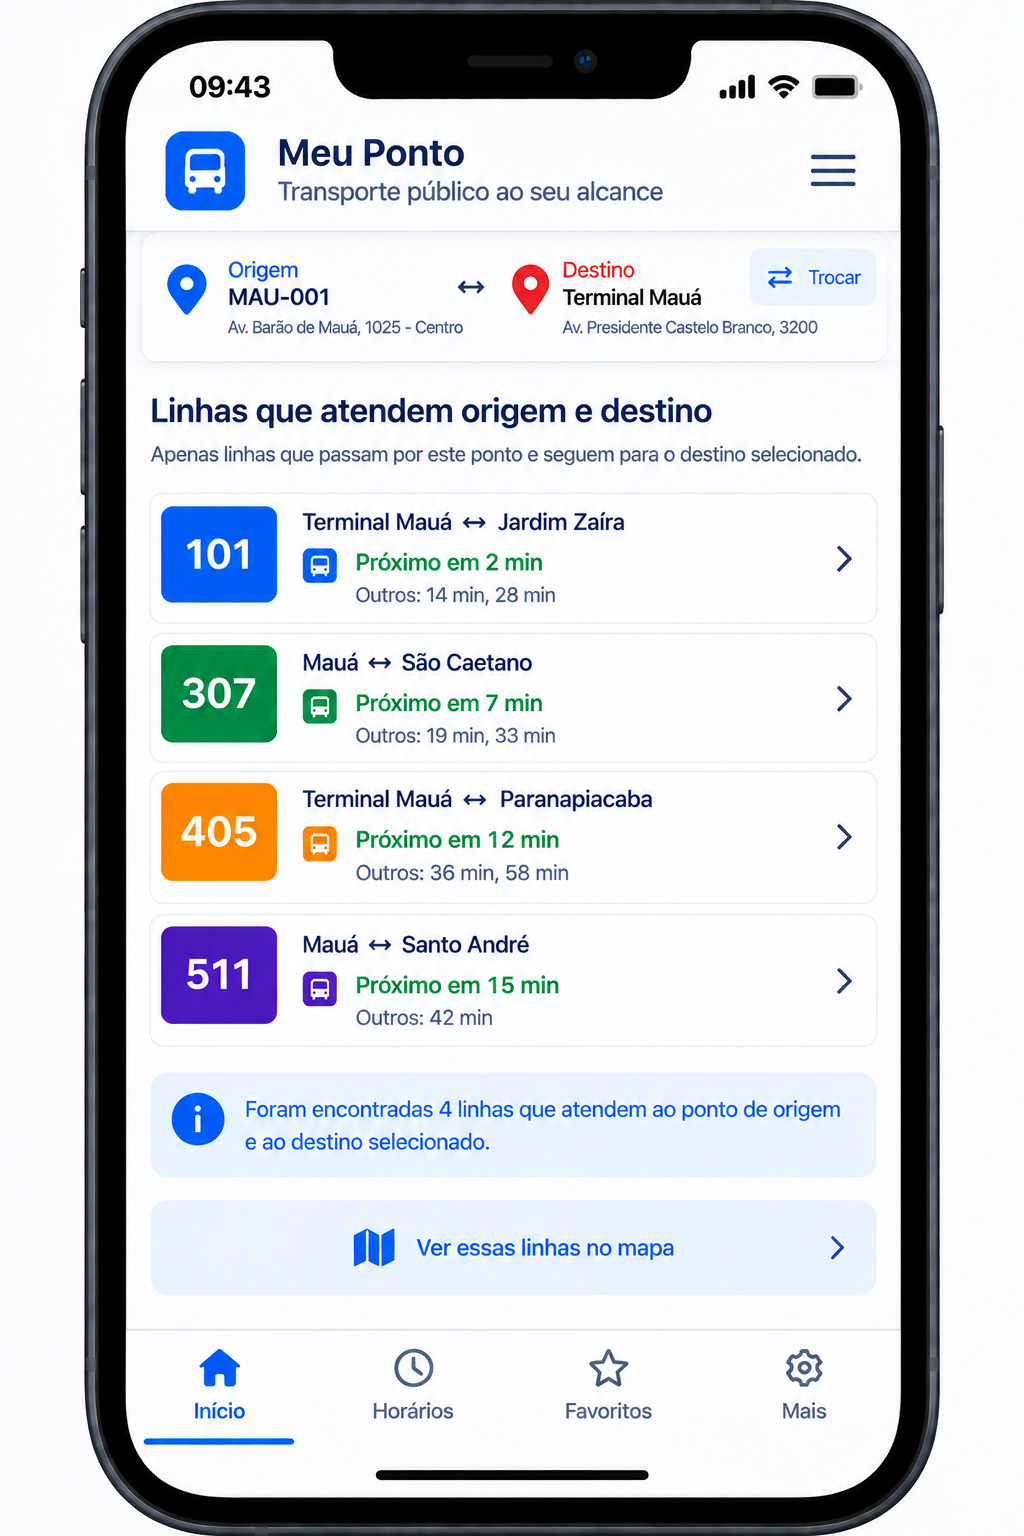
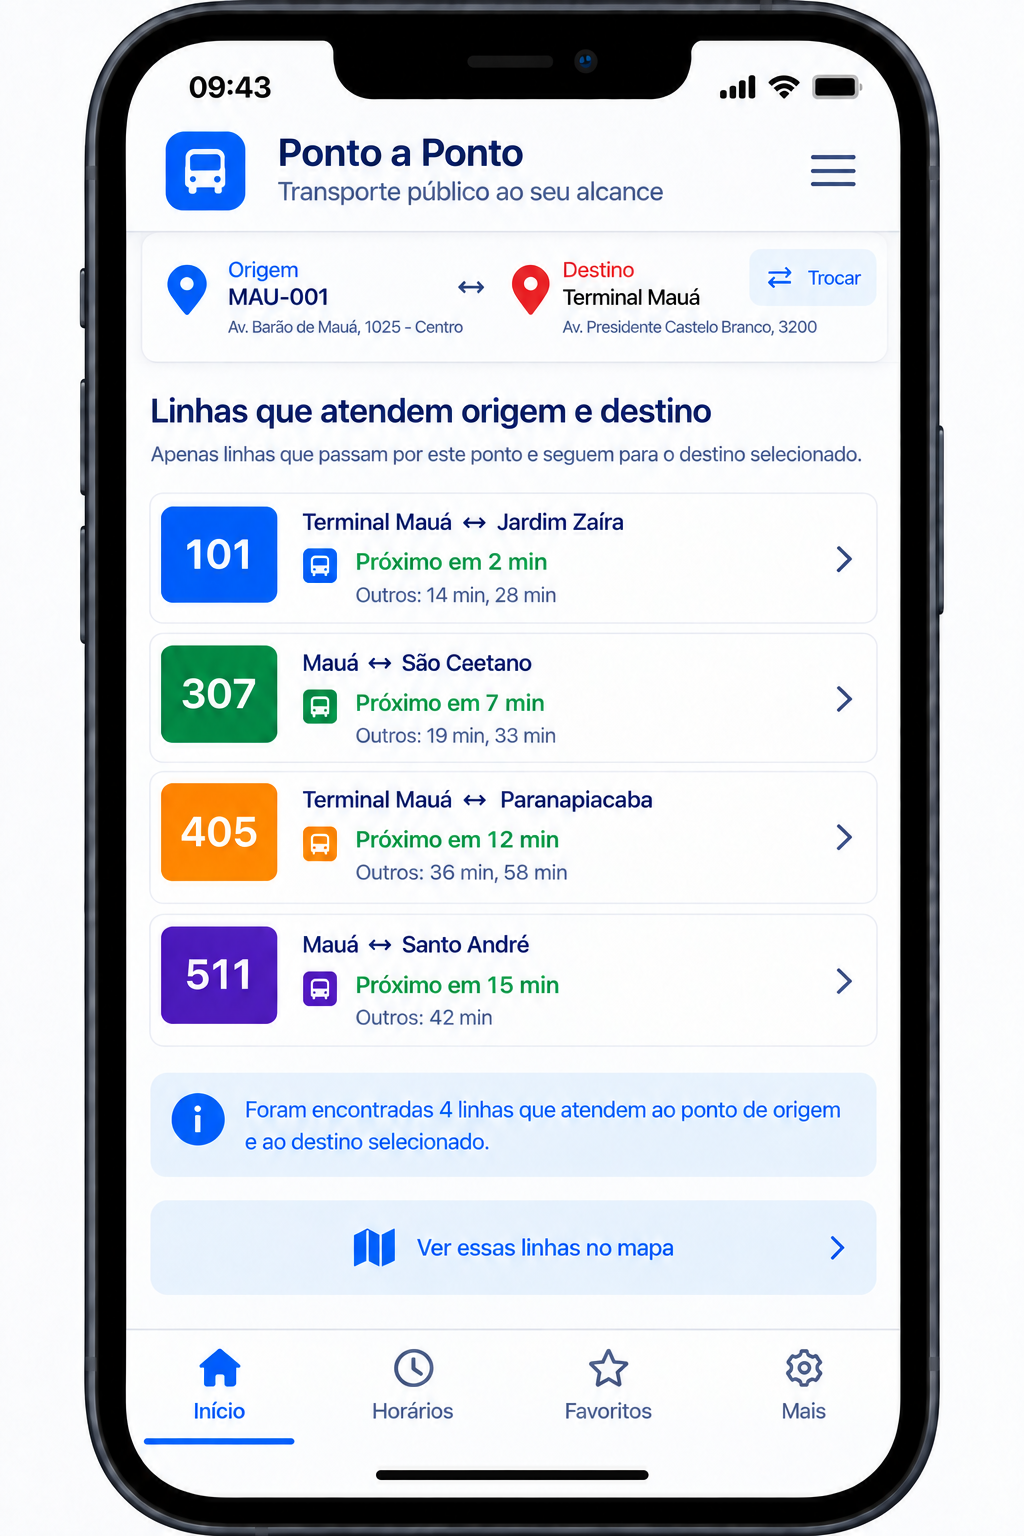
docs: criar apresentação do PaP com mockups compartilhados

diff --git a/docs/mockup/mockup_ponto_a_ponto.tex b/docs/mockup/mockup_ponto_a_ponto.tex
@@ -1,0 +1,152 @@
+\documentclass[11pt,a4paper]{article}
+\usepackage[utf8]{inputenc}
+\usepackage[T1]{fontenc}
+\usepackage[brazilian]{babel}
+\usepackage{lmodern}
+\usepackage[margin=19mm,headheight=15pt,footskip=12mm]{geometry}
+\usepackage{graphicx,xcolor,tabularx,array,enumitem,fancyhdr,hyperref}
+\definecolor{papblue}{HTML}{124C82}
+\definecolor{papteal}{HTML}{087F8C}
+\definecolor{paplight}{HTML}{EEF5FA}
+\definecolor{papgray}{HTML}{485568}
+\hypersetup{colorlinks=true,urlcolor=papblue,linkcolor=papblue,pdftitle={Ponto a Ponto -- apresentação da proposta a Osmar},pdfauthor={Equipe do Projeto Integrador II -- UNIVESP}}
+\graphicspath{{imgs/}}
+\renewcommand{\familydefault}{\sfdefault}
+\setlength{\parindent}{0pt}
+\setlength{\parskip}{7pt}
+\setlist[itemize]{leftmargin=*,itemsep=5pt,topsep=3pt}
+\setlist[enumerate]{leftmargin=*,itemsep=6pt,topsep=3pt}
+\pagestyle{fancy}\fancyhf{}
+\fancyhead[L]{\small\color{papblue}\textbf{PaP | Ponto a Ponto}}
+\fancyhead[R]{\small\color{papgray}Proposta para avaliação}
+\fancyfoot[L]{\footnotesize\color{papgray}Projeto Integrador II | UNIVESP}
+\fancyfoot[R]{\footnotesize\thepage/8}
+\renewcommand{\headrulewidth}{0.3pt}
+\newcommand{\titulo}[2]{\vspace*{2mm}{\small\bfseries\color{papteal}#1\par}\vspace{2mm}{\LARGE\bfseries\color{papblue}#2\par}\vspace{2mm}}
+\newcommand{\bloco}[2]{\par\smallskip\noindent\colorbox{paplight}{\parbox{\dimexpr\linewidth-2\fboxsep\relax}{\vspace{2mm}\textbf{\color{papblue}#1}\par\smallskip #2\vspace{2mm}}}\par\smallskip}
+\newcommand{\parimagens}[4]{\par\smallskip\noindent\begin{minipage}[t]{0.485\linewidth}\vspace{0pt}\centering\includegraphics[width=\linewidth,height=139mm,keepaspectratio]{#1}\par\smallskip{\small\textbf{#2}}\end{minipage}\hfill\begin{minipage}[t]{0.485\linewidth}\vspace{0pt}\centering\includegraphics[width=\linewidth,height=139mm,keepaspectratio]{#3}\par\smallskip{\small\textbf{#4}}\end{minipage}\par\smallskip{\footnotesize\color{papgray}Fonte: mockups gerados automaticamente, fornecidos pelo grupo e incluídos no relatório parcial. Dados e locais ilustrativos.}\par}
+\begin{document}
+\titulo{APRESENTAÇÃO DA SOLUÇÃO INICIAL · VERSÃO 1 · 24/09/2026}{Ponto a Ponto}
+{\Large\color{papteal}Deslocamento facilitado entre origem e destino.\par}
+\vspace{5mm}
+{\large Sistema de acesso a informações do transporte público por QR Code em pontos de ônibus\par}
+\vspace{5mm}
+\bloco{O que queremos discutir com você, Osmar}{Como facilitar a decisão de quem está no ponto de ônibus e precisa chegar a um destino, mesmo sem conhecer as linhas, o nome da parada ou seu endereço.}
+\textbf{A proposta}
+
+Um QR Code no ponto abre uma página no navegador com a origem já identificada. O passageiro consulta os próximos ônibus e escolhe aonde quer ir. A seleção do destino reduz as informações às alternativas úteis e permite consultar trajeto, espera e possíveis trocas.
+\begin{enumerate}
+\item \textbf{Acessar:} ler o QR Code, sem instalar aplicativo.
+\item \textbf{Escolher:} informar o destino, sem escolher previamente uma linha.
+\item \textbf{Comparar:} observar as alternativas e os veículos relevantes juntos.
+\item \textbf{Viajar:} consultar o percurso, o tempo total e eventuais baldeações.
+\end{enumerate}
+\textbf{Como ler este documento}
+
+As páginas seguintes apresentam oito telas conceituais já utilizadas no relatório parcial e explicam a experiência pretendida. Existe também um protótipo web funcional, descrito no relatório, mas \textbf{as imagens deste PDF não são capturas dessa implementação}.
+\bloco{Identidade e dados das imagens}{As telas apresentam a identidade do projeto \textbf{Ponto a Ponto (PaP)}. Linhas, endereços, posições e tempos desenhados são ilustrativos. A apresentação busca seu retorno sobre a proposta e não comprova uma operação real em Mauá.}
+\textbf{Retorno esperado:} sua percepção sobre utilidade, clareza, dificuldades práticas e melhorias prioritárias. As perguntas estão na última página.
+
+\newpage
+\titulo{01 · CHEGADA AO PONTO}{Reconhecer a origem sem pesquisar}
+O passageiro aponta a câmera do celular para o QR Code da parada. A página deve abrir com o ponto identificado e oferecer acesso às linhas e à escolha do destino.
+\parimagens{mockup1.png}{Sinalização conceitual no ponto}{mockup2.png}{Origem identificada na página}
+\bloco{O que esse acesso pretende resolver}{Dispensar o conhecimento prévio do nome da parada, endereço, código ou linha. O QR Code estabelece o contexto da consulta; a navegação ocorre pela web e depende de acesso à internet.}
+{\small A placa é uma ilustração: não representa instalação nem aprovação municipal. O código desenhado não é um QR Code funcional para teste.}
+\textbf{Para avaliar:} a sinalização e a primeira tela deixam claro o que o passageiro pode fazer?
+
+\newpage
+\titulo{02 · CONSULTA INICIAL}{Ver os ônibus e escolher aonde ir}
+A consulta inicial reúne as linhas do ponto. Para quem não sabe qual utilizar, a escolha do destino deve orientar o próximo passo e reduzir a quantidade de informações.
+\parimagens{mockup3.png}{Linhas e próximas chegadas}{mockup4.png}{Escolha do destino no mapa}
+\bloco{Da lista completa à necessidade do passageiro}{A lista inicial não deve exigir que a pessoa conheça o itinerário de cada linha. Ao informar um destino, ela passa a consultar as alternativas compatíveis com sua viagem.}
+{\small Os tempos de chegada mostrados nas telas são ilustrativos. No protótipo, as previsões demonstrativas usam dados simulados.}
+\textbf{Para avaliar:} a opção de escolher um destino está suficientemente visível para quem não conhece a rede?
+
+\newpage
+\titulo{03 · COMPARAÇÃO DAS ALTERNATIVAS}{Reunir os ônibus úteis no mesmo mapa}
+Com origem e destino definidos, o passageiro consulta uma lista reduzida e acompanha os veículos relevantes de diferentes linhas em uma mesma visualização.
+\parimagens{mockup5.png}{Alternativas filtradas pelo destino}{mockup6.png}{Veículos de diferentes linhas juntos}
+\bloco{Decidir sem abrir uma consulta para cada linha}{Cores e identificadores relacionam veículos e alternativas. A intenção é facilitar a comparação e evitar que linhas sem relação com o destino ocupem a atenção do passageiro.}
+{\small Apesar da expressão ``tempo real'' desenhada no mockup, esta apresentação utiliza posições e tempos ilustrativos; não há integração operacional de Mauá demonstrada aqui.}
+\textbf{Para avaliar:} a visão conjunta ajuda na decisão? Quais informações deveriam ter maior destaque?
+
+\newpage
+\titulo{04 · DETALHAMENTO DA VIAGEM}{Entender o percurso e o tempo de chegada}
+Depois de comparar as alternativas, o passageiro pode abrir os detalhes de uma linha, consultar a sequência de paradas e acompanhar o trajeto destacado no mapa.
+\parimagens{mockup7.png}{Horários e duração da viagem}{mockup8.png}{Trajeto e sequência de paradas}
+\bloco{Duas informações que precisam ser distintas}{\textbf{Espera no ponto:} quanto falta para embarcar. \textbf{Tempo total até o destino:} inclui espera, deslocamento e eventuais trocas. O desenho do percurso deve acompanhar as ruas, com sentido e pontos de embarque claros.}
+{\small Os valores desenhados nas telas não formam uma simulação numérica validada. As imagens ilustram viagens diretas; o exemplo da próxima página explica uma viagem com troca.}
+\textbf{Para avaliar:} fica claro onde embarcar, em qual sentido viajar e onde descer?
+
+\newpage
+\titulo{05 · EXEMPLO DE USO}{Quando a viagem exige trocar de ônibus}
+\textbf{Situação ilustrativa:} uma pessoa chega a uma parada que não conhece e deseja ir ao trabalho. Ela lê o QR Code, confirma a origem e escolhe seu destino. O planejamento encontra uma opção com duas linhas.
+\bloco{Exemplo exclusivamente simulado}{Os nomes ``Linha A'', ``Linha B'' e ``Ponto de conexão'' abaixo são genéricos. Os tempos foram escolhidos apenas para explicar o cálculo; não correspondem às linhas ou aos valores das telas anteriores.}
+\renewcommand{\arraystretch}{1.5}
+\begin{tabularx}{\linewidth}{@{}>{\bfseries}p{0.30\linewidth} X r@{}}
+Etapa & Orientação ao passageiro & Tempo\\\hline
+Espera na origem & Aguardar o veículo da Linha A no sentido indicado. & 4 min\\
+Primeiro trecho & Viajar pela Linha A até o ponto de conexão. & 12 min\\
+Troca & Descer e aguardar a Linha B no mesmo local de embarque previsto neste exemplo. & 5 min\\
+Segundo trecho & Seguir pela Linha B até a parada de destino. & 9 min\\\hline
+Total estimado & Da consulta na origem até a parada de destino. & \textbf{30 min}\\
+\end{tabularx}
+\vspace{4mm}
+\textbf{O que a orientação deve mostrar}
+\begin{itemize}
+\item Linha e sentido de cada trecho, pontos de embarque e desembarque.
+\item Local da troca e tempo de espera antes do segundo ônibus.
+\item Tempo total, quantidade de trocas e percurso pelas ruas.
+\item Ausência de alternativa quando os dados ou horários não permitirem encontrar um caminho.
+\end{itemize}
+O protótipo usa planejamento por menor tempo estimado, com Dijkstra, considerando os horários do cenário e as conexões. Um ônibus que chega primeiro à origem não necessariamente produz a chegada mais rápida ao destino.
+\bloco{Ponto de atenção para uma operação real}{Este exemplo supõe troca no mesmo local e não inclui caminhada nem regras tarifárias. Em uma implantação, deslocamentos entre plataformas, acessibilidade, tempo mínimo de conexão e integração tarifária precisam ser verificados.}
+\textbf{Para avaliar:} quais cuidados e informações sobre baldeações são indispensáveis na realidade de Mauá?
+
+\newpage
+\titulo{06 · ESTÁGIO DO PROJETO}{O que existe e o que depende de validação}
+\textbf{Protótipo web descrito no relatório}
+\begin{itemize}
+\item Consulta por origem e destino, acesso por QR Code e apresentação de alternativas.
+\item Planejamento com possíveis baldeações e cenários de veículos e tempos simulados.
+\item Favoritos no navegador, como Casa, Trabalho e Escola, sem exigir cadastro para uma consulta ocasional.
+\item Administração separada para ativar ou desativar a simulação; o passageiro não precisa ligá-la na tela principal.
+\end{itemize}
+A aplicação utiliza Django, React e SQLite. O uso pelo celular ocorre no navegador; um aplicativo Android permanece como possibilidade futura.
+\textbf{Dados e limites atuais}
+\begin{itemize}
+\item OSM e catálogos públicos ajudam a montar a base de linhas, itinerários e paradas, mas a cobertura é parcial.
+\item Há localizações aproximadas e registros sem coordenadas, que precisam de conferência.
+\item Tempos e posições demonstrativos não são previsões operacionais. Desligar a simulação não disponibiliza automaticamente dados reais.
+\item O PDF permite avaliar o conceito; a usabilidade e o funcionamento devem ser observados também no protótipo, com participantes.
+\end{itemize}
+\bloco{Em que sua experiência pode ajudar}{Identificar situações que o fluxo ainda não atende, conferir o vocabulário usado e orientar o contato com os responsáveis pelo cadastro e pela operação do transporte.}
+\textbf{Informações para uma futura integração}
+
+Linhas e variantes vigentes; paradas por sentido e suas coordenadas; ordem das paradas e trajetos; horários e calendários; condições de transferência; localização dos veículos e previsões, quando disponíveis. Também será necessário conhecer as condições de uso, os responsáveis e a frequência de atualização desses dados.
+
+Um eventual piloto com placas exige autorização e definição de quem manterá os QR Codes e as informações. Essas condições ainda precisam ser discutidas.
+
+\newpage
+\titulo{07 · CONVITE À AVALIAÇÃO}{Osmar, o que deveríamos melhorar?}
+Seu retorno pode ser enviado no próprio corpo do e-mail, seguindo os números abaixo. Não é necessário elaborar um parecer formal: exemplos práticos e sugestões já ajudam a orientar a próxima versão.
+\begin{enumerate}
+\item \textbf{Utilidade.} O acesso por QR Code ajudaria quem não conhece o ponto ou as linhas? Em quais situações seria mais útil?
+\item \textbf{Clareza.} A sequência origem, destino e alternativas está compreensível? Há termos ou informações que podem confundir o passageiro?
+\item \textbf{Comparação.} Mostrar os próximos ônibus de diferentes linhas juntos ajuda a escolher? O que deveria ser priorizado na tela?
+\item \textbf{Trocas.} Quais informações são indispensáveis para orientar uma baldeação com segurança e clareza?
+\item \textbf{Realidade local.} Há situações de Mauá que o fluxo não contempla, como variantes, sentidos, plataformas ou restrições de atendimento?
+\item \textbf{Prioridade.} Qual mudança você recomendaria fazer primeiro? Há algo que deveríamos retirar ou simplificar?
+\item \textbf{Continuidade.} Com quem poderíamos conversar sobre cadastro operacional, dados disponíveis e condições para um eventual piloto autorizado?
+\end{enumerate}
+\bloco{Como utilizaremos as sugestões}{Vamos registrar o retorno como avaliação inicial da proposta, relacionar cada sugestão às mudanças previstas e atualizar o relatório do PI. O envio do documento, por si só, não será tratado como validação da solução.}
+\textbf{Registro da avaliação}
+
+Para contextualizar o retorno, pedimos que informe a data e se avaliou apenas este PDF ou também teve contato com o protótipo funcional. Antes de reproduzir comentários atribuídos a você no relatório, gostaríamos de confirmar sua concordância.
+\vspace{5mm}
+{\large\color{papblue}\textbf{Obrigado pela colaboração!}\par}
+Sua experiência contribui para aproximar o projeto das necessidades de quem utiliza e de quem organiza o transporte público.
+\vfill
+{\small\color{papgray}Documento preparado pela equipe do Projeto Integrador II da UNIVESP a partir do relatório parcial do Ponto a Ponto. Versão 1, de 24 de setembro de 2026.}
+\end{document}

diff --git a/docs/mockup/email_osmar.md b/docs/mockup/email_osmar.md
@@ -1,0 +1,31 @@
+Assunto: Ponto a Ponto — apresentação da proposta e pedido de sugestões | PI UNIVESP
+
+Olá, Osmar! Tudo bem?
+
+Dando continuidade à nossa conversa sobre o acesso às informações do transporte público nos pontos de ônibus, organizamos uma apresentação do Ponto a Ponto (PaP), projeto que estamos desenvolvendo no Projeto Integrador II da UNIVESP. A ideia que orienta a proposta é: “Deslocamento facilitado entre origem e destino.”
+
+Segue em anexo um PDF com a sequência de telas e explicações do fluxo. A proposta é permitir que o passageiro leia um QR Code no ponto e abra uma página com a origem já identificada, sem instalar aplicativo nem conhecer previamente o nome da parada, seu endereço ou as linhas disponíveis. Ao escolher o destino, ele poderá consultar as alternativas úteis, acompanhar os ônibus relevantes no mesmo mapa e entender o trajeto e possíveis trocas.
+
+Já temos um protótipo web funcional em desenvolvimento. As imagens do PDF, porém, são mockups conceituais com a identidade do Ponto a Ponto. Os tempos e posições apresentados são ilustrativos; no protótipo, esses dados são simulados. Ainda precisamos validar os cadastros e discutir as condições de acesso a informações operacionais de Mauá.
+
+Gostaríamos de contar com sua experiência para avaliar principalmente:
+
+1. A utilidade desse fluxo para quem não conhece o ponto ou as linhas.
+2. A clareza das telas e as informações que faltam para decidir qual ônibus utilizar.
+3. A comparação de diferentes linhas e a orientação de viagens com baldeação.
+4. As particularidades de Mauá que precisamos considerar e a melhoria que você priorizaria.
+
+A última página traz perguntas mais detalhadas. Você pode responder por aqui, de maneira breve, ou, se preferir, podemos combinar uma conversa para apresentar também o protótipo.
+
+Se puder indicar os responsáveis pelos cadastros de linhas, paradas, itinerários e horários, além de eventuais dados de localização dos veículos, isso também ajudará no planejamento das próximas etapas. Neste momento, buscamos entender quais dados existem e sob quais condições poderiam ser utilizados no projeto acadêmico.
+
+Pretendemos registrar suas sugestões no relatório e usá-las para orientar as melhorias. Você concorda que mencionemos sua participação e os comentários atribuídos a você no trabalho?
+
+Obrigado pela disponibilidade e pela contribuição ao projeto!
+
+Atenciosamente,
+André Meneghelli Vale
+Pela equipe do Projeto Integrador II — UNIVESP
+Projeto Ponto a Ponto (PaP)
+
+Anexo: mockup_ponto_a_ponto.pdf

diff --git a/docs/mockup/README.md b/docs/mockup/README.md
@@ -1,0 +1,24 @@
+# Apresentação do Ponto a Ponto a Osmar
+
+Documento de oito páginas para apresentar o fluxo conceitual e solicitar sugestões da comunidade externa. As oito imagens são acessadas por `imgs`, um link simbólico relativo para `../relatorio_parcial/imgs/`. O relatório e esta apresentação usam os mesmos arquivos, sem cópias independentes. Edite as imagens no diretório do relatório e recompile os dois PDFs. Mantenha essa estrutura e preserve links simbólicos ao clonar ou copiar o projeto.
+
+## Gerar o PDF
+
+Na raiz do repositório:
+
+```sh
+cd docs/mockup
+latexmk -pdf -interaction=nonstopmode -halt-on-error mockup_ponto_a_ponto.tex
+```
+
+O arquivo resultante é `mockup_ponto_a_ponto.pdf`. PDFs e arquivos auxiliares são ignorados pelo Git localmente.
+
+## Enviar e registrar o retorno
+
+Use o texto de `email_osmar.md` e anexe o PDF gerado. O e-mail não foi enviado automaticamente. Registre a data do envio, a versão apresentada, o retorno efetivamente recebido e as alterações decorrentes antes de atualizar o relatório sobre a avaliação da comunidade.
+
+As imagens são conceituais e usam o nome “Ponto a Ponto”. Tempos, locais e posições são ilustrativos; não são capturas do protótipo nem dados operacionais validados. O exemplo de baldeação é independente dos valores desenhados nas imagens.
+
+## Edição da identidade visual
+
+As telas `mockup2.png` a `mockup8.png` foram editadas com a ferramenta integrada `imagegen`. Instrução utilizada em cada tela: substituir apenas o título “Meu Ponto” por “Ponto a Ponto”, mantendo a tipografia azul, o enquadramento e os demais elementos. A imagem da placa (`mockup1.png`) foi preservada. Por serem imagens geradas, permanecem referências conceituais, não capturas do software.
